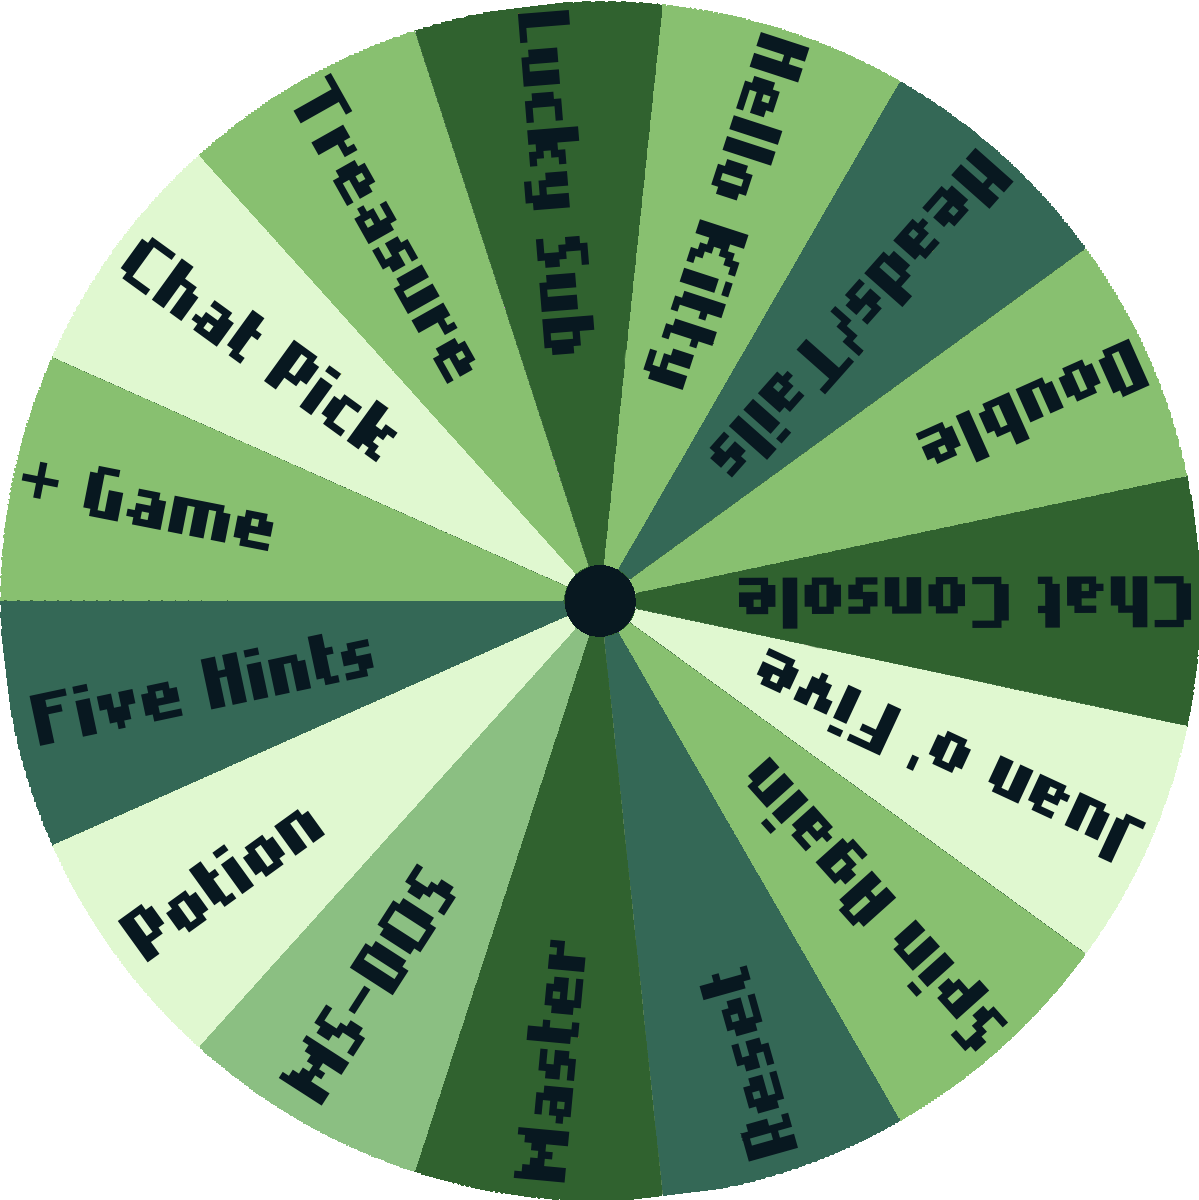
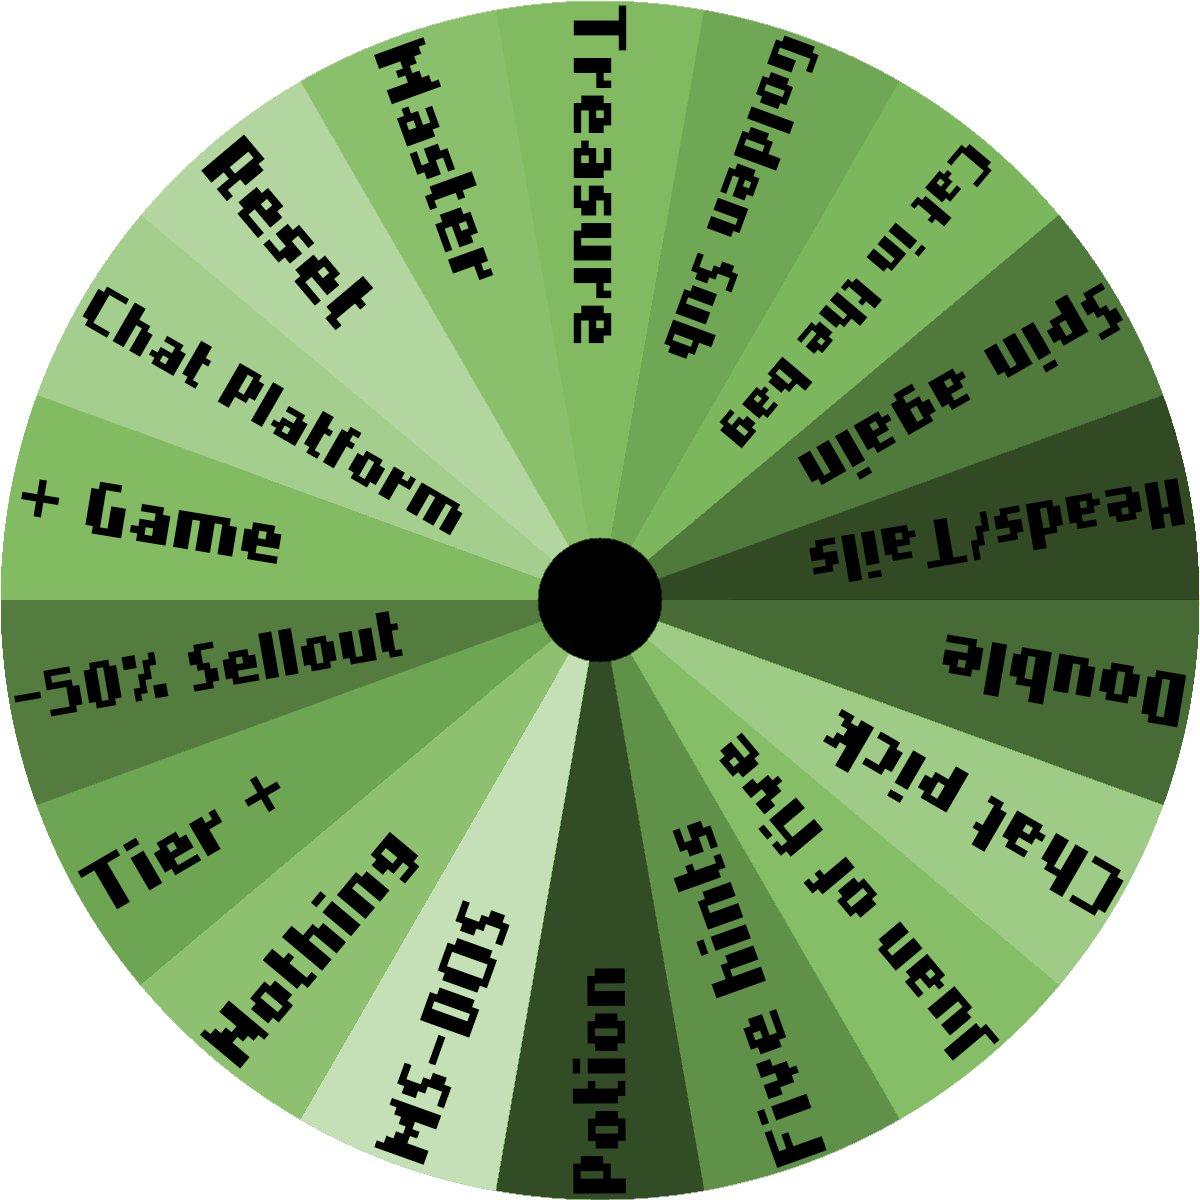
Added new prizes, changed wheel graphics

diff --git a/src/main/java/ventus/rggwheel/model/PrizeEnum.java b/src/main/java/ventus/rggwheel/model/PrizeEnum.java
@@ -2,20 +2,23 @@ package ventus.rggwheel.model;
 
 public enum PrizeEnum {
     ADD_GAME("+ Game", "Add one game on current platform."),
-    CHAT_PICK("Chat Pick", "The player rolls “next game” in the generator and the audience can pick one from the 5 games shown on screen."),
-    TREASURE("Golden Treasure Bag", "The last donator chooses next game (current platform"),
-    LUCKY_SUB("Golden Sub Bag", "The last subscriber chooses next game (current platform)."),
+    CHAT_CONSOLE("Chat Console", "The next game will be a game from a platform chosen by chat, still counting in the current platform, if it happens to be the last platform then spin the wheel again."),
+    RESET("Reset Incentives", "Subs and donation incentives goals on the current platform reset to starting value. (this includes current donations and subs points)."),
+    MASTER("Master Choice", "The next game is chosen by the player in the current platform."),
+    TREASURE("Golden Treasure Bag", "The last donator chooses the next game in the current platform."),
+    LUCKY_SUB("Golden Sub Bag", "The last subscriber chooses the next game in the current platform."),
     HELLO_KITTY("Cat in the Bag", "Next game will be chosen randomly from a list that includes all the games on each platform."),
+    SPIN_AGAIN("Juan More Time", "The player spins the wheel one more time."),
     HEADS_OR_TAILS("Heads or Tails", "Player makes a guess head or tail, then throw the coin. If he wins then one game is subtracted, but if he loses then one game is added."),
     DOUBLE("Super Wheel", "The player spins the wheel again but with multiplier by two effect."),
-    CHAT_CONSOLE("Chat Console", "Add one game to a specific remaining platform selected by the audience, if it happens to be the last platform then the player has to spin the wheel again"),
+    CHAT_PICK("Chat Pick", "The player rolls “next game” in the generator and the audience can pick one from the 5 games shown on screen."),
     JUAN_OF_FIVE("Juan of Five", "The player rolls next game in the generator and can pick one from the 5 games shown on screen."),
-    SPIN_AGAIN("Juan More Time", "The player spins the wheel one more time."),
-    RESET("Reset Incentives", "Subs and donation incentives goals on the current platform reset to starting value. (this includes current donations and subs points)."),
-    MASTER("Master Choice", "The next game is chosen by the player (current platform)."),
-    MS_DOS("MS-DOS", "Next game is a DOS game"),
+    FIVE_HINTS("Consult Chat", "Item goes to inventory, when used audience spoilers will be allowed for the current game."),
     POTION("Reroll Potion", "Item goes to inventory, when used the player can reroll the current game without any punishment."),
-    FIVE_HINTS("Consult Chat", "Item goes to inventory, when used audience spoilers will be allowed for the current game.");
+    MS_DOS("MS-DOS", "Next game is a DOS game"),
+    NOTHING("Nothing", "Sometimes the “house wins”."),
+    TIER_PLUS("Tier +", "The incentives will increase to the next level tier. If the sub incentive is currently at “10/15” then it will increase to “10/18”, the same will happen with the bits/donations."),
+    SELLOUT("- 50% Sellout", "The $$$ donations and incentive will be halved and it will stay that way across games and platforms. It will only be restored to original value after incentive is met.");
 
     final String name;
     final String description;
